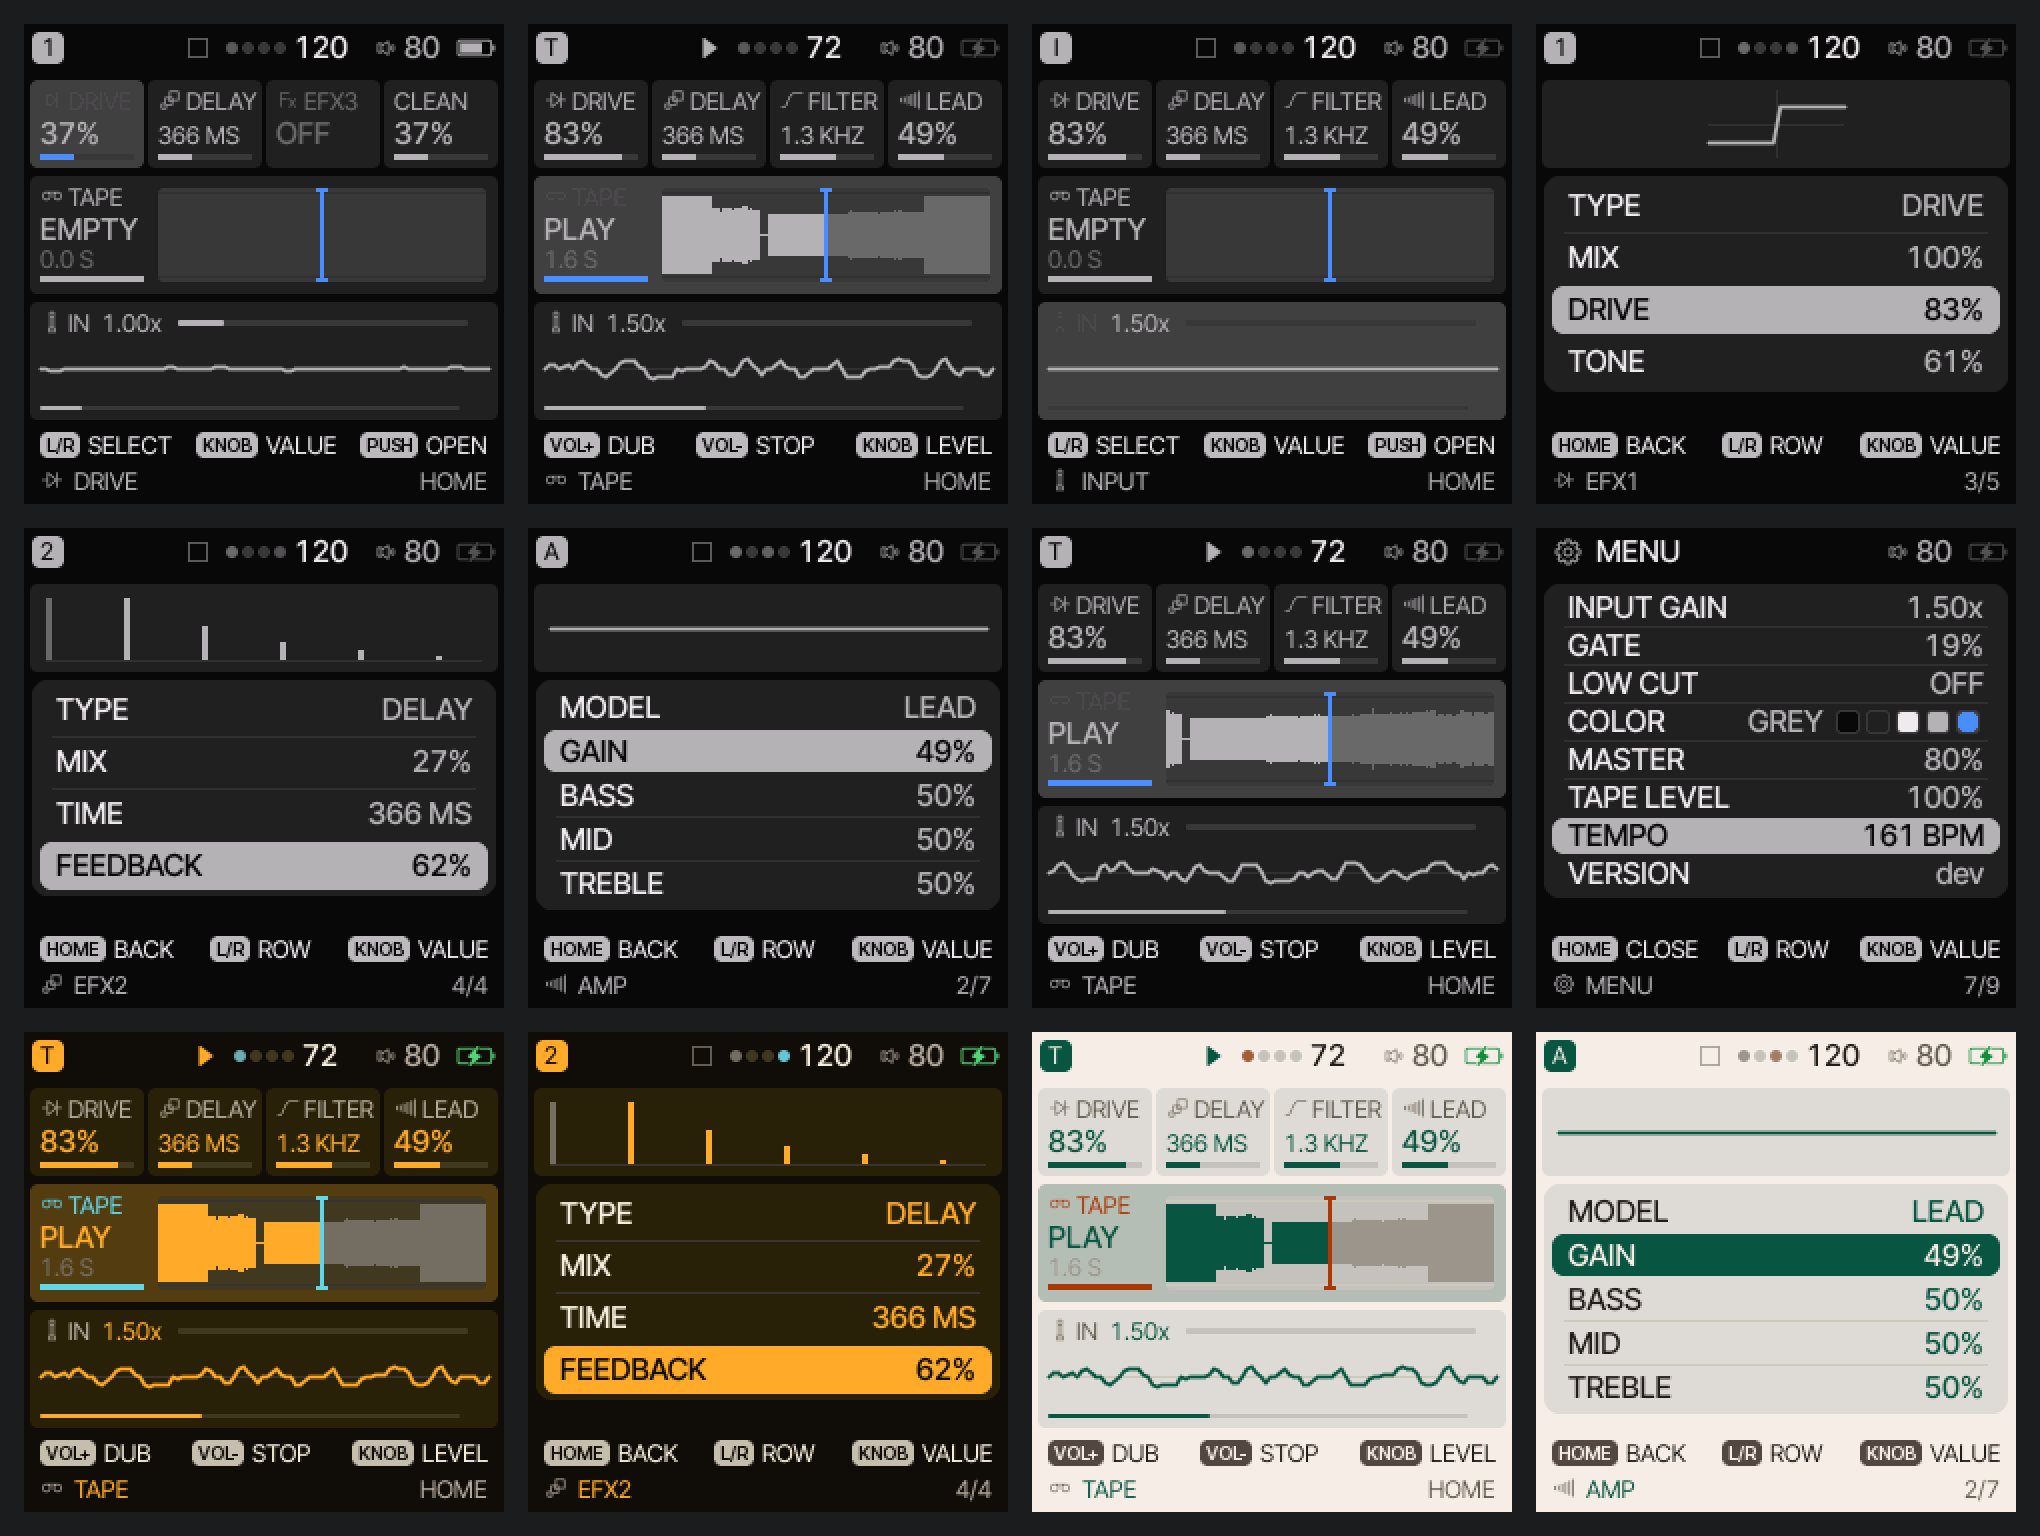
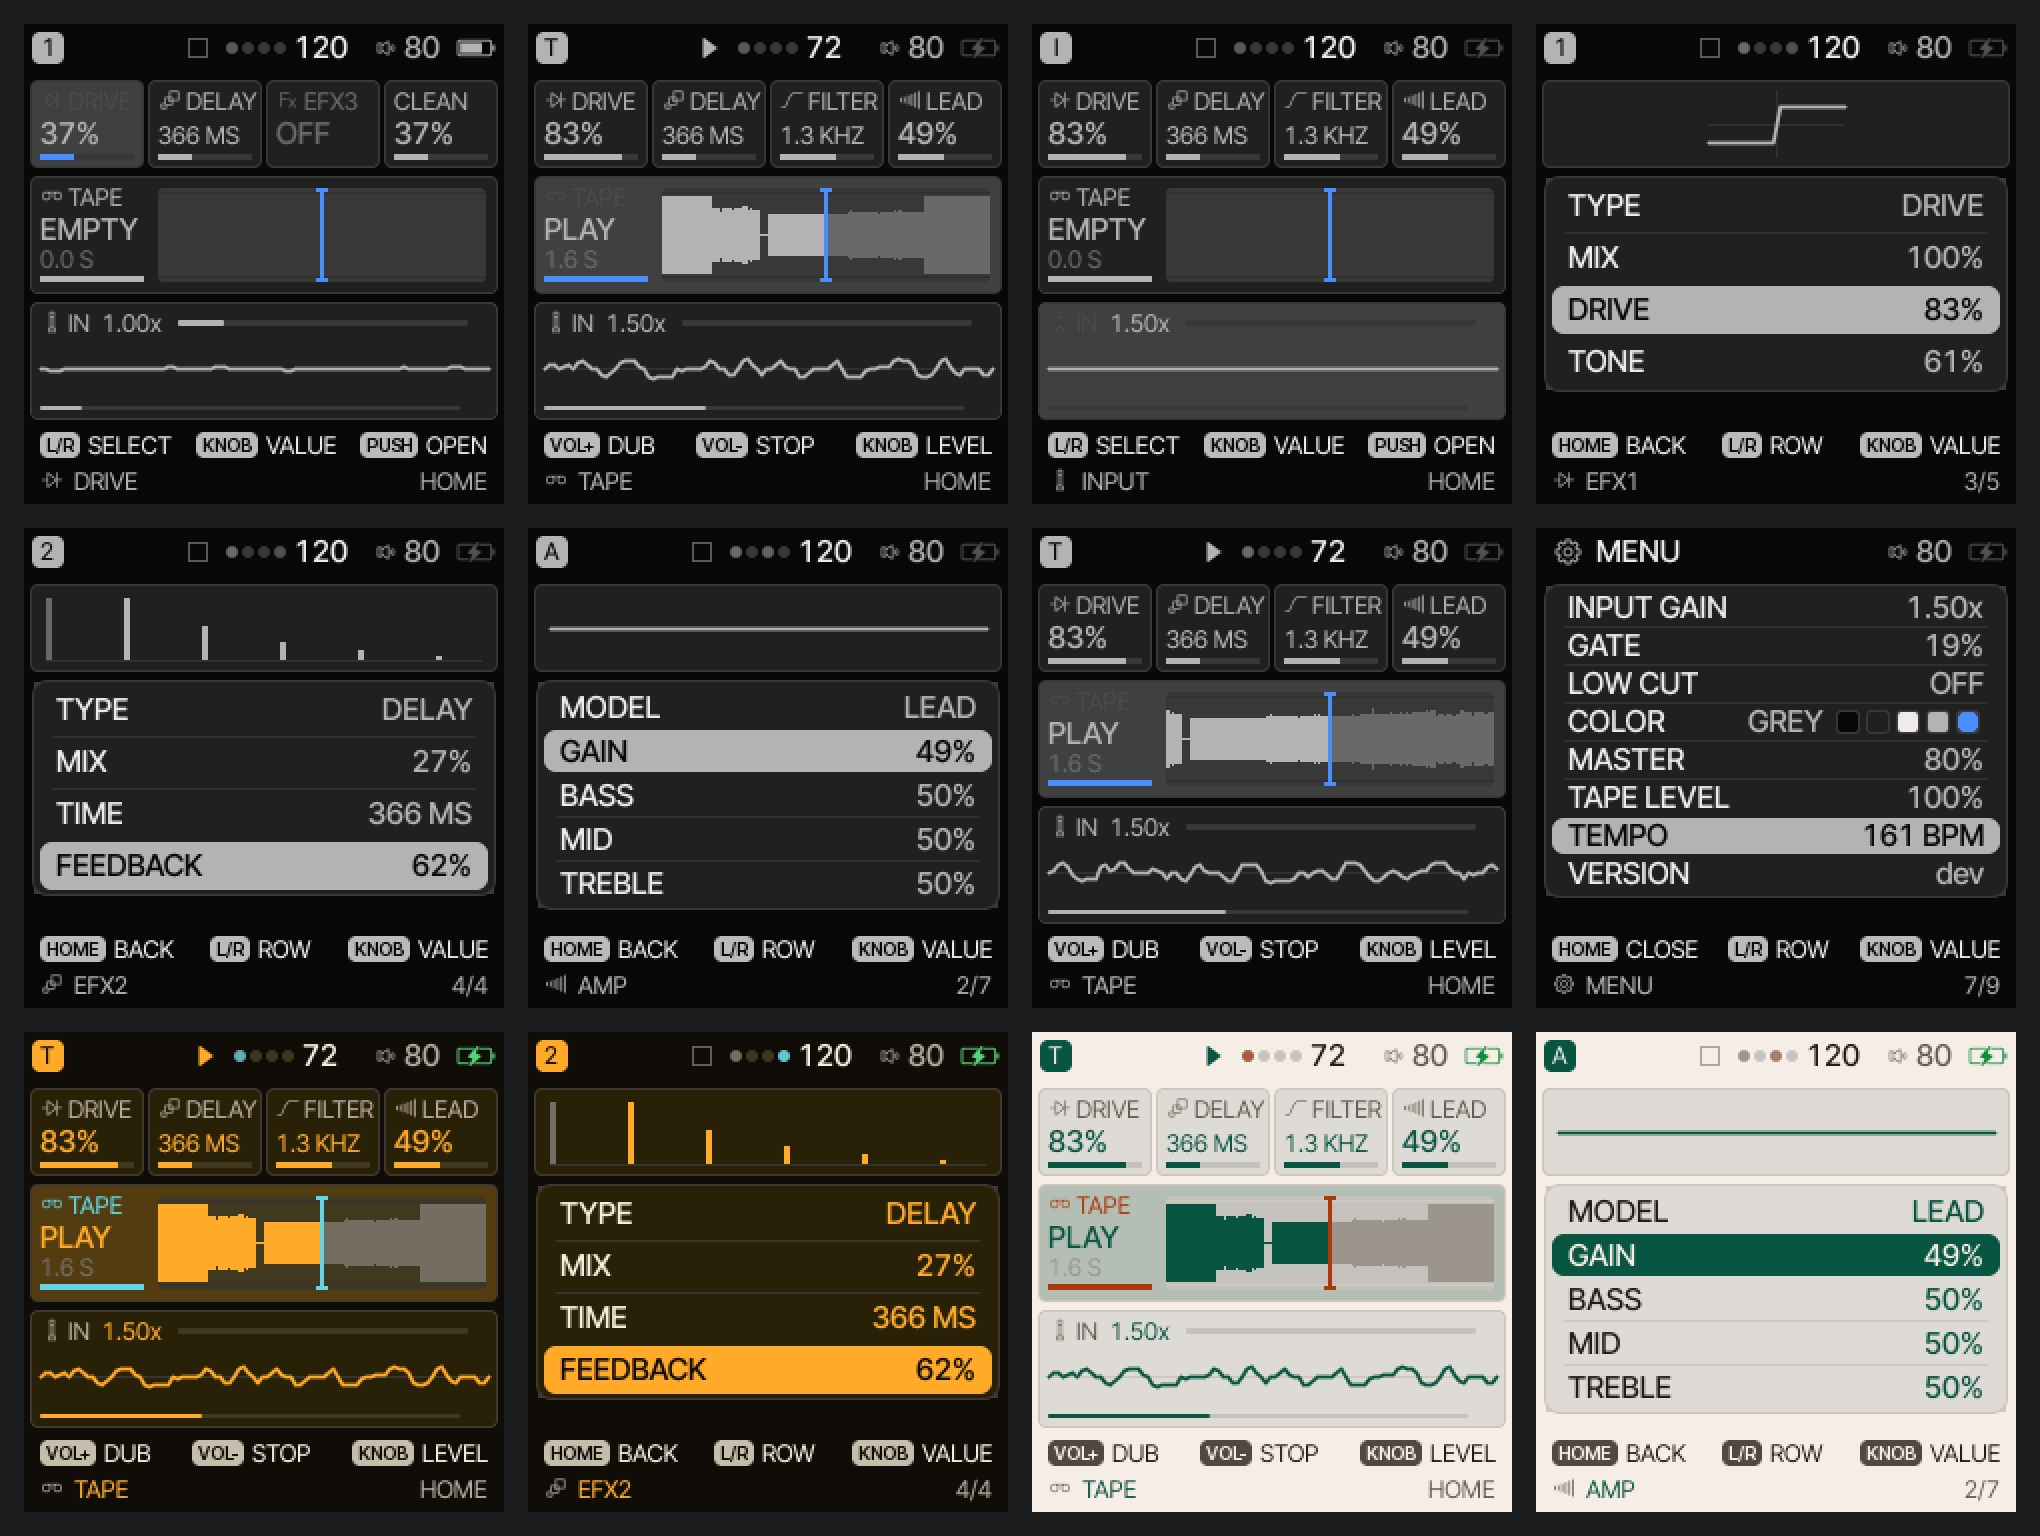
UI: Felucca 2.0's PANEL look: the cards, the tape band, the scope, the graph and the lists outlined (T_EDGE, cv_panel)

Changed region(s): [[0.6794, 0.0938, 0.7103, 0.125], [0.1853, 0.75, 0.2162, 0.7812], [0.1853, 0.0938, 0.2162, 0.125]]

diff --git a/src/ui/gfx.c b/src/ui/gfx.c
@@ -91,7 +91,7 @@ static uint8_t cv_flip;          /* cv_alpha_hc: the cell mirrored left <-> righ
 static struct {
     uint16_t pal[5];             /* the five as stored: color1 color2 color3 primary secondary (the editor shows them) */
     uint16_t bg, surf, text, theme, accent;
-    uint16_t mid, dim, line, sel, tint, ink, rec, raise, key, lane, grid, ok;
+    uint16_t mid, dim, line, sel, tint, ink, rec, raise, key, lane, grid, ok, edge;
     uint8_t light, mono;
     uint8_t style;               /* MENU > STYLE (ui.c style_apply): ST_FLAT, ST_LINE */
     uint32_t gen;                /* bumped by palette_set (the text ramps follow) */
@@ -116,6 +116,7 @@ static struct {
 #define T_REC ux.rec             /* REC: the palette's primary (red) */
 #define T_WARN ux.rec            /* a warning (low battery, a full name): the primary too */
 #define T_OK ux.ok               /* 1.8: the battery on USB power: green, on every palette (darker on a light BG) */
+#define T_EDGE ux.edge           /* Felucca 2.0's PANEL: a panel's 1 px outline */
 #define T_RAISE ux.raise         /* a raised area on a surface: stubs, guides, slots, chips, button wells */
 #define T_KEY ux.key             /* a keycap's fill (its label: T_INK; unavailable: a T_DIM fill) */
 #define T_LANE ux.lane           /* the piano roll: an in-scale row (SURF -> THEME 10 %) */
@@ -177,13 +178,14 @@ static void palette_set(uint32_t i)
     ux.surf = ux.style ? ux.bg : surf;
     ux.raise = ux_mix(surf, ux.text, UI_RAISE_PCT);
     ux.key = ux_mix(ux.bg, ux.text, UI_KEY_PCT);
+    ux.edge = ux_mix(ux.bg, ux.text, 20);
     ux.lane = ux_mix(ux.surf, ux.theme, 10);
     ux.grid = ux_mix(ux.surf, ux.text, 6);
     ux.light = ux_luma(ux.bg) > 128u;
     ux.ok = ux.light ? UI_OK_LIGHT : UI_OK_DARK;
     if (!cust && i == UI_BW_INDEX) {             /* MONO: black and white, set, not blended (tools/gen_ui_palettes.py) */
         ux.mid = ux.sel = ux.key = p->c3;        /* a selection, a keycap: white, its INK black */
-        ux.dim = ux.line = ux.raise = ux.lane = UI_BW_GREY;   /* the one grey: inactive, tracks, wells */
+        ux.dim = ux.line = ux.raise = ux.lane = ux.edge = UI_BW_GREY;   /* the one grey: inactive, tracks, wells, edges */
         ux.tint = ux.grid = p->c1;
     }
     ux.gen++;                                    /* the text ramps change with the coverage curve */
@@ -340,6 +342,18 @@ static void cv_rrect(int32_t x, int32_t y, int32_t w, int32_t h, int32_t r, uint
             cv_pset(x + i, y + h - 1 - j, px);
             cv_pset(x + w - 1 - i, y + h - 1 - j, px);
         }
+}
+
+/* Felucca 2.0's PANEL: a panel (a card, the graph's panel) in `fill` with a 1 px T_EDGE outline, the corners
+ * anti-aliased against `under`; cv_panel fills it SURF */
+static void cv_panel_in(int32_t x, int32_t y, int32_t w, int32_t h, int32_t r, uint16_t fill, uint16_t under)
+{
+    cv_rrect(x, y, w, h, r, T_EDGE, under);
+    cv_rrect(x + 1, y + 1, w - 2, h - 2, r > 1 ? r - 1 : r, fill, T_EDGE);
+}
+static void cv_panel(int32_t x, int32_t y, int32_t w, int32_t h, int32_t r, uint16_t under)
+{
+    cv_panel_in(x, y, w, h, r, T_SURF, under);
 }
 
 /* ------------------------------------------------- 4-bit alpha blit --- */

diff --git a/src/ui/ui.c b/src/ui/ui.c
@@ -480,7 +480,7 @@ static void card(int32_t c, int focus, const ui_model_t *m)
     int dim = m->card_dim[c];
     uint16_t bg = focus ? focus_bg() : T_SURF;        /* the card in focus: its own colour, no frame */
     uint16_t lc = focus ? T_ACCENT : dim ? T_DIM : T_MID, vc = dim ? T_DIM : T_THEME;
-    cv_rrect(x, CARD_Y, CARD_W, CARD_H, 4, bg, T_BG);
+    cv_panel_in(x, CARD_Y, CARD_W, CARD_H, 4, bg, T_BG);
     LINT_CELL(x, CARD_Y, x + CARD_W, CARD_Y + CARD_H);
     if (m->card_icon[c] && m->card_label[c] && 5 + 12 + 2 + text_w(&AF_S, m->card_label[c]) <= CARD_W - 2) {
         icon_in(lx, CARD_Y + 3 + AF_S_CAP_Y, 12, AF_S_CAP_H, m->card_icon[c] - 1u, 12, lc, bg);
@@ -505,7 +505,7 @@ static void tape_band(const ui_model_t *m, int focus)
     uint16_t vc = m->loop_state == UI_LOOP_EMPTY ? T_THEME : loop_colour(m->loop_state);
     int32_t lx = PANEL_X + 5;
     char len[12], *d;
-    cv_rrect(PANEL_X, TAPE_Y, PANEL_W, TAPE_H, 4, bg, T_BG);
+    cv_panel_in(PANEL_X, TAPE_Y, PANEL_W, TAPE_H, 4, bg, T_BG);
     LINT_CELL(PANEL_X, TAPE_Y, PANEL_X + PANEL_W, TAPE_Y + TAPE_H);
     icon_in(lx, TAPE_Y + 3 + AF_S_CAP_Y, 12, AF_S_CAP_H, IC_LOOP, 12, lc, bg);       /* as a card: name, state, gauge */
     cv_text_on(lx + 14, TAPE_Y + 3, &AF_S, "TAPE", lc, bg);
@@ -536,7 +536,7 @@ static void home(const ui_model_t *m)
         int sf = m->focus == 5;
         uint16_t bg = sf ? focus_bg() : T_SURF, lc = sf ? T_ACCENT : T_MID, vc = T_THEME;
         int32_t lx = PANEL_X + 5, x;
-        cv_rrect(PANEL_X, SCOPE_Y, PANEL_W, SCOPE_H, 4, bg, T_BG);
+        cv_panel_in(PANEL_X, SCOPE_Y, PANEL_W, SCOPE_H, 4, bg, T_BG);
         LINT_CELL(PANEL_X, SCOPE_Y, PANEL_X + PANEL_W, SCOPE_Y + SCOPE_H);
         scope(PANEL_X + 5, SCOPE_Y + 18, PANEL_W - 10, SCOPE_H - 28, m->scope, T_THEME);
         icon_in(lx, SCOPE_Y + 3 + AF_S_CAP_Y, 12, AF_S_CAP_H, IC_INPUT, 12, lc, bg);
@@ -561,7 +561,7 @@ static void home(const ui_model_t *m)
 static void graph(const ui_model_t *m, int32_t x, int32_t y, int32_t w, int32_t h)
 {
     const int32_t *g = m->g;
-    cv_rrect(x, y, w, h, 4, T_SURF, T_BG);
+    cv_panel(x, y, w, h, 4, T_BG);
     LINT_CELL(x, y, x + w, y + h);
     x += 8;
     y += 5;
@@ -636,7 +636,7 @@ static void list_page(const ui_model_t *m)
     if (m->focus >= vis)
         first = m->focus - vis + 1;
     ph = (vis ? vis * (rh + gap) - gap : 0) + 2 * LP_PAD;
-    cv_rrect(LP_X, y0, LP_W, ph, 8, T_SURF, T_BG);
+    cv_panel(LP_X, y0, LP_W, ph, 8, T_BG);
     LINT_CELL(LP_X, y0, LP_X + LP_W, y0 + ph);
     for (i = first; i < n && i < first + vis; i++) {
         const ui_row_t *r = &m->rows[i];
